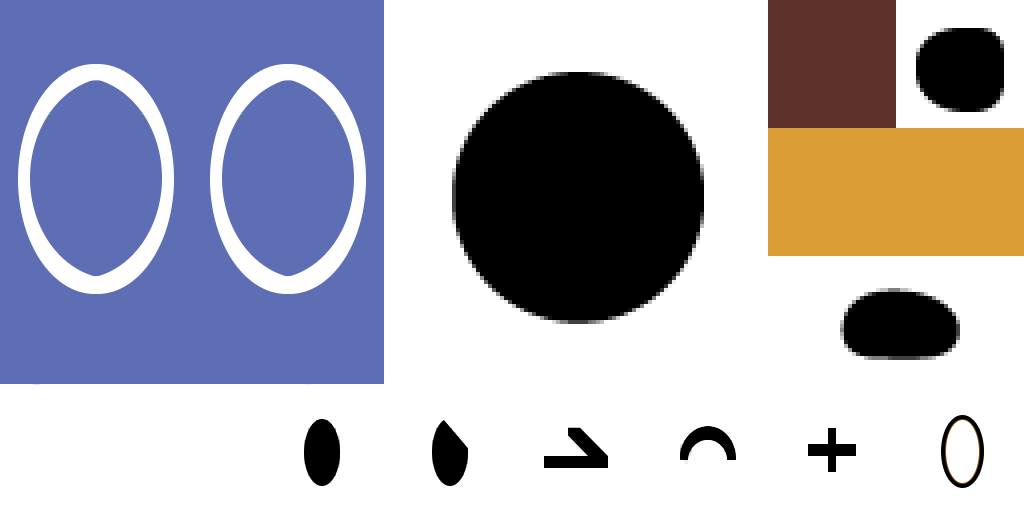
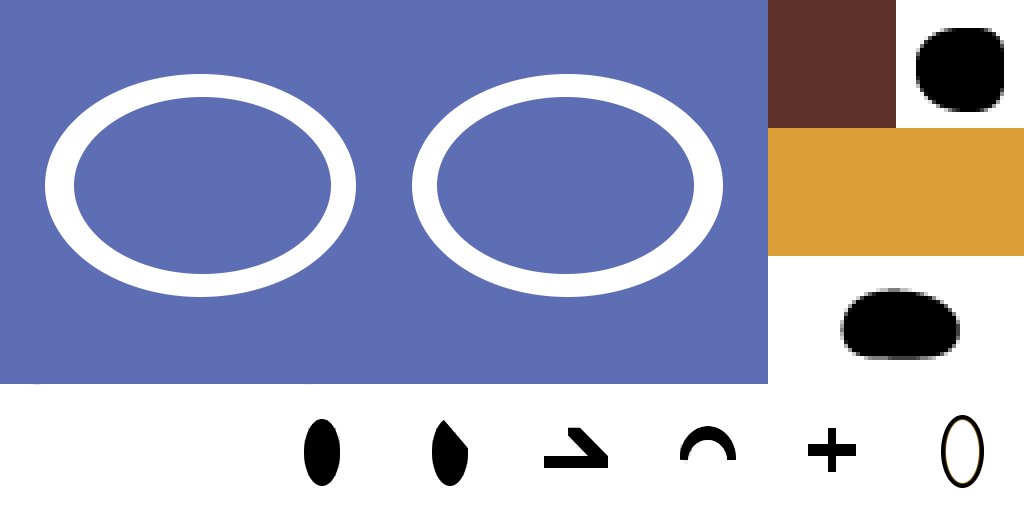
More Z shadow support, more scins, more detalization

diff --git a/src/client/components/graphics/PlayerModel.cpp b/src/client/components/graphics/PlayerModel.cpp
@@ -10,7 +10,7 @@
 
 const int EyeScale = (int)(BaseSize*0.40);
 const float Separation=(0.075f*BaseSize)-EyeScale/2;
-const int detalization=16;
+const int detalization=32;
 const int animSpeed=300;
 vec3 PlayerModel::weaponPos[NUM_WEAPONS]={
 		vec3(0,1,0),
@@ -66,7 +66,7 @@ void PlayerModel::create(){
 	rFoot=new Model();
 	rFoot->addSphere(detalization, detalization, vec3(0.7f, 1, 0.5f), RenderSize / 2.4f, Client::m_Graphics()->m_Resources->texturePos8x4[14] >> Client::m_Graphics()->m_Resources->texturePos8x4[15], true);
 	Body=new Model();
-	Body->addSphere(detalization, detalization, vec3(1, 1, 1), RenderSize / 2, Client::m_Graphics()->m_Resources->texturePos8x4[0] >> Client::m_Graphics()->m_Resources->texturePos8x4[18], false);
+	Body->addSphere(detalization, detalization, vec3(1, 1, 1), RenderSize / 2, Client::m_Graphics()->m_Resources->texturePos8x4[0] >> Client::m_Graphics()->m_Resources->texturePos8x4[21], false);
 	Eyes=new Model(false);
 	NickName=new Text3d();
 	NickNameShadow=new Model(false);

diff --git a/src/client/components/Players.cpp b/src/client/components/Players.cpp
@@ -27,10 +27,10 @@ Players::Players() : Component(){
 		players[i]->weapon=rand()%NUM_WEAPONS;
 		players[i]->emote=EMOTE_NORMAL;
 		players[i]->skin = (*skinName).first;
+		players[i]->NickName = (*skinName).first;
+		n[i]->update(players[i]);
 		skinName++;
 		if (skinName == m_Graphics()->m_Resources->skinTextures.end()) skinName = m_Graphics()->m_Resources->skinTextures.begin();
-		players[i]->NickName="Happy New Year!";
-		n[i]->update(players[i]);
 	}
 	cursor=new Model2d();
 	cursor->addQuad(quad2(-0.0625f, -0.0625f, 0.125f, 0.125f), m_Graphics()->m_Resources->gameCursor[0]);

diff --git a/src/client/components/graphics/Model.h b/src/client/components/graphics/Model.h
@@ -16,6 +16,7 @@ class Model{
 public:
 	///<summary>Texture used in shaders</summary>
 	GLuint texture;
+	GLuint normalTexture;
 	///<summary>Position of the model</summary>
 	glm::vec3 position;
 	///<summary>Ratation of the model</summary>

diff --git a/src/client/components/Camera.cpp b/src/client/components/Camera.cpp
@@ -8,6 +8,9 @@ Camera* Component::m_Camera(){ return mp_Camera; }
 
 Camera::Camera() : Component(){
 	mp_Camera = this;
+	position = vec3(0, 0, 0);
+	rotation = vec3(0, 0, 0);
+	SetMatrix();
 }
 Camera::~Camera(){
 	mp_Camera = NULL;
